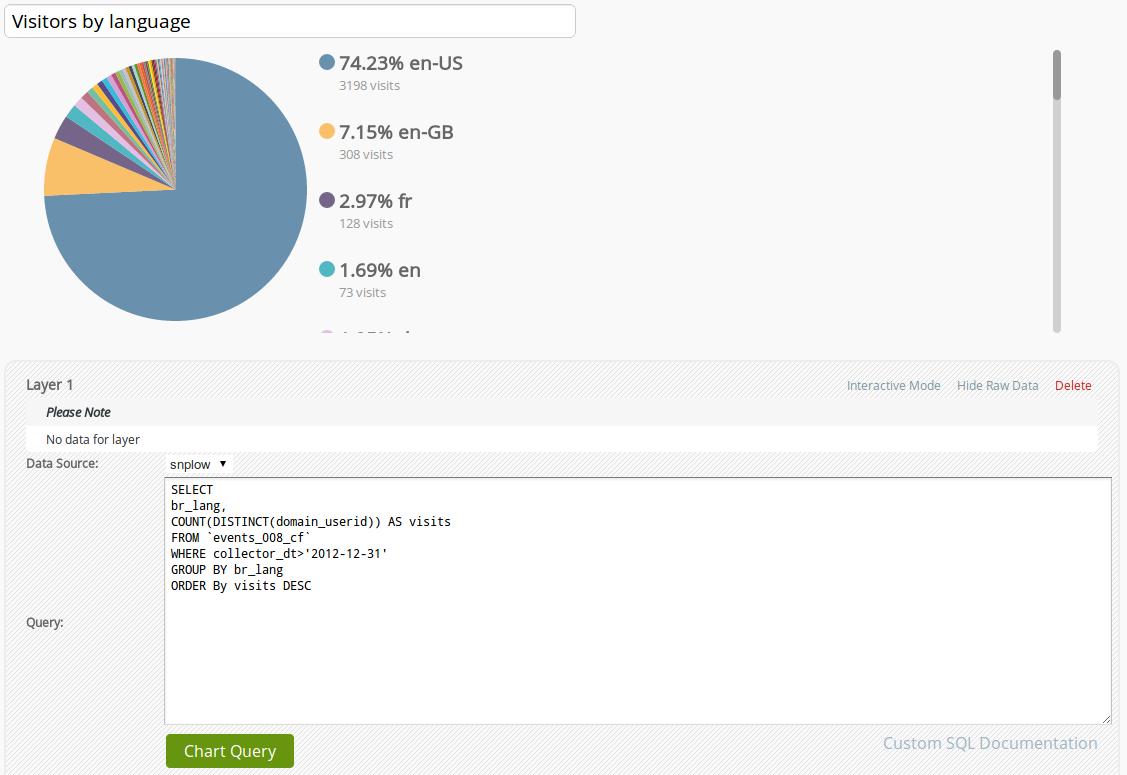
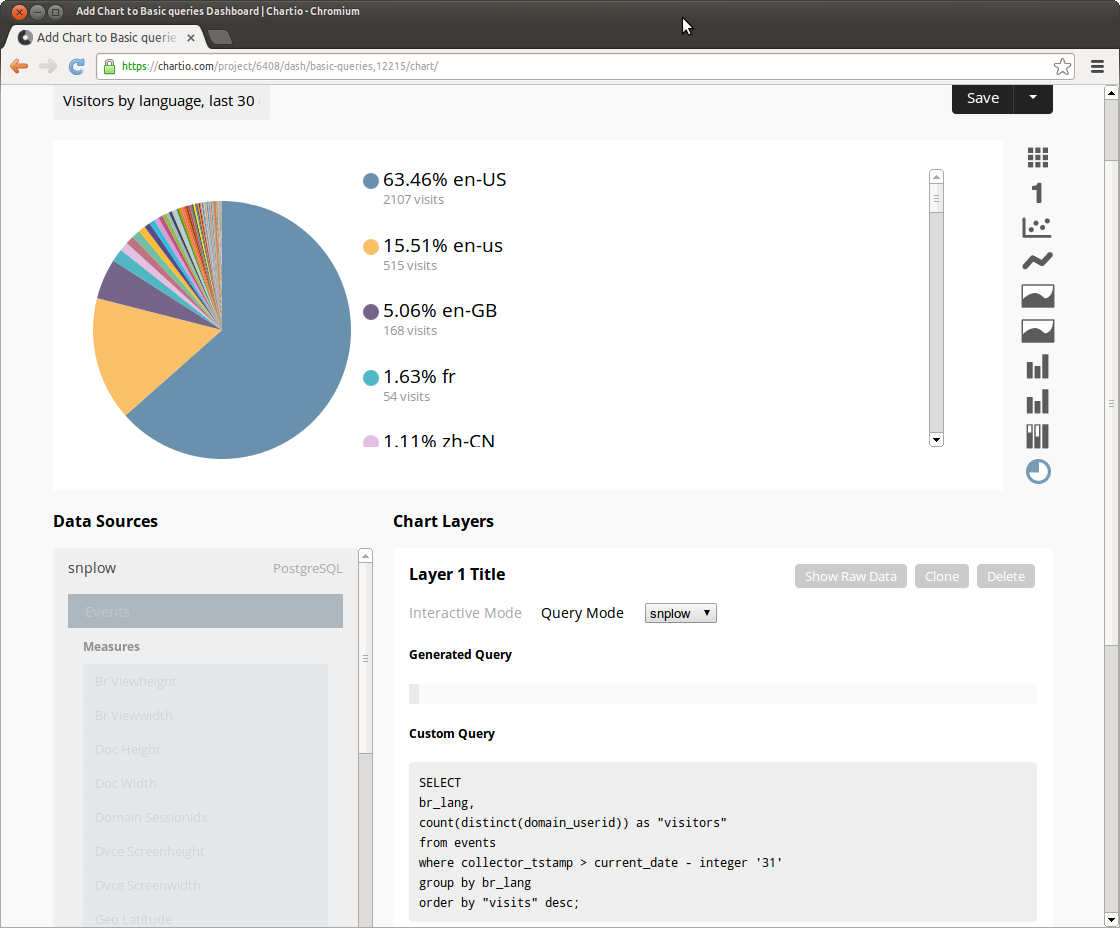
updated another basic recipe (visitors by country)

diff --git a/analytics/basic-recipes.md b/analytics/basic-recipes.md
@@ -293,10 +293,6 @@ group by "Date"
 order by "Date";
 {% endhighlight %}
 
-In ChartIO:
-
-![average-duration-by-month][average-duration-by-month]
-
 [Back to top](#top)
 
 <a name="language"><h2>9. Demographics: language</h2></a>
@@ -304,17 +300,15 @@ In ChartIO:
 For each event the browser language is stored in the `br_language` field. As a result, counting the number of visitors in a time period by language is trivial:
 
 {% highlight mysql %}
-/* HiveQL / MySQL */
+/* Redshift / PostgreSQL */
 SELECT
 br_lang,
-COUNT(DISTINCT(domain_userid)) AS visits
-FROM `events_008_cf`
-WHERE collector_dt>'2012-12-31'
-GROUP BY br_lang
-ORDER By visits DESC
+count(distinct(domain_userid)) as "visitors"
+from events
+where collector_tstamp > current_date - integer '31'
+group by br_lang
+order by "visitors" desc;
 {% endhighlight %}
-
-Note that rather than dividing the visits by language, it may make more sense to divide 
 
 In ChartIO:
 
@@ -324,7 +318,26 @@ In ChartIO:
 
 <a name="location"><h2>10. Demographics: location</h2></a>
 
-THIS NEEDS TO BE DONE IN CONJUNCTION WITH MAXIMIND DATABASE OR OTHER GEOIP DATABASE, BASED ON IP - TO WRITE
+We can identify the geographic location of users using the `geo_country`, `geo_region`, `geo_city`, `geo_zipcode`, `geo_latitude` and `geo_longitude` fields.
+
+To calculate the number of visitors in the last month by country, simply execute:
+
+{% highlight mysql %}
+/* Redshift / PostgreSQL */
+SELECT
+geo_country,
+count(distinct(domain_userid)) as "visitors"
+from events
+where collector_tstamp > current_date - integer '31'
+group by geo_country
+order by "visitors" desc;
+{% endhighlight %}
+
+In ChartIO:
+
+![visitors-by-country][visitors-by-country-chartio]
+
+To create a geographical plot, you'll need to use another tool like [R] [r] or [Tableau] [tableau].
 
 [Back to top](#top)
 
@@ -739,3 +752,7 @@ Plotting the results in ChartIO:
 [visits-by-operating-system]: /static/img/analytics/basic-recipes/visits-by-operating-system.png
 [split-in-visits-by-mobile-vs-desktop]: /static/img/analytics/basic-recipes/split-in-visits-by-mobile-vs-desktop.png
 [page-views-per-visit-frequency-table-chartio]: /static/img/analytics/basic-recipes/page-views-per-visit-frequency-table-chartio.png
+[visitors-by-country-chartio]: /static/img/analytics/basic-recipes/visitors-by-country-chartio.png 
+[tableau]: http://www.tableausoftware.com/
+[r]: http://cran.r-project.org/
+
